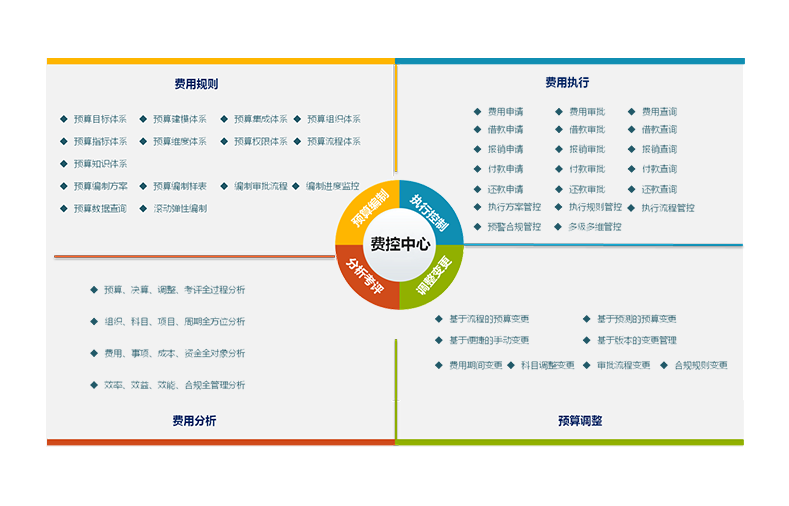
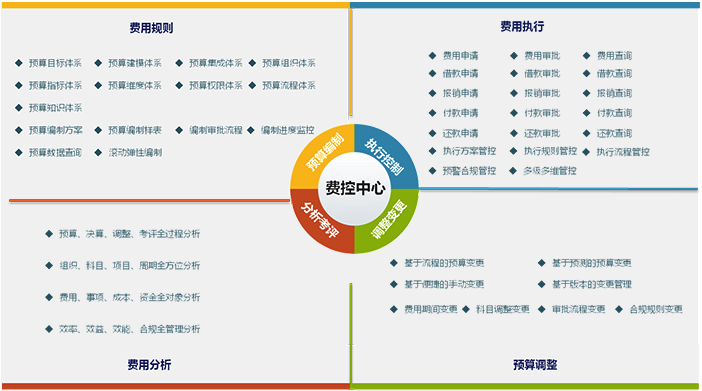
修改图片尺寸和md标签

diff --git a/docs/group_management/features.md b/docs/group_management/features.md
@@ -3,7 +3,7 @@ title: 技术特点
 ---
 ## 多管控模式融合
 
-### 集团级组织树
+#### 集团级组织树
 
 支持组织机构多维度：按照行政、业务条线、管控模式、业务特性等建立多维度矩阵式管理模式
 
@@ -13,14 +13,14 @@ title: 技术特点
 
 通过权限管理，实现多级分权的组织分权模式：支持移动段的组织结构视图
 
-### “弹性化”的集团组织体系
+#### “弹性化”的集团组织体系
 
 支持临时组织的建立：在集团企业中，跨组织、跨部门的沟通与协作不断增长，以事件或者目标为核心的机制突破集团组织边界
 
 支持多变动的组织调整：具备弹性的组织动态调整功能，快速应对与响应业务发展需要
 
 
-### 可视化集团分级分权体系
+#### 可视化集团分级分权体系
 
 - 按照不同股权关系展现权限体系
 - 按照不同的业务单元展现权限体系
@@ -28,7 +28,7 @@ title: 技术特点
 - 按照不同的条线管理内容展现权限体系
 
 
-### 灵活的权限调整
+#### 灵活的权限调整
 
 - 组织结构调整，自动展现需要修正的权限内容
 - 权限随时复制，应对组织规模的随时扩大
@@ -39,7 +39,7 @@ title: 技术特点
 
 ## 实时信息传达
 
-### 跨组织实时传达
+#### 跨组织实时传达
 
 实现集团与下属企业的上传下达，实现信息对称，协同运作：
 - 跨组织的实时沟通
@@ -48,7 +48,7 @@ title: 技术特点
 - 任务执行的上传下达
 ![跨组织实时传达](/static/groupimg/m2_l.png)
 
-### 传达内容可视化
+#### 传达内容可视化
 
 通过最直观的方式，让传达更高效，可跟踪，能分析，提升传达效能：
 - 实时性可视化
@@ -57,7 +57,7 @@ title: 技术特点
 - 统计分析可视化
 ![跨组织实时传达](/static/groupimg/m6_l.png)
 
-### 传达方式移动化
+#### 传达方式移动化
 
 通过移动化应用提升整个集团在信息传达方面的效率：
 - 用消息机制来实现传达与互动
@@ -68,7 +68,7 @@ title: 技术特点
 
 ## 实时资源共享
 
-### 人力资源共享
+#### 人力资源共享
 
 实现集团专家资源的服务共享：在集团企业中，实现专家资源最大化的利用与共享
 
@@ -77,48 +77,48 @@ title: 技术特点
 人力资源的招聘与培训共享服务：建立集团的人力资源服务中心，为集团内企业提供培训、招募服务
 
 
-### 知识资源的共享
+#### 知识资源的共享
 
 形成集团化的知识仓库：可集中沉淀集团在管理过程中的知识，形成共性知识资源的共享
 
 集团级的知识仓库：面向整个集团建立大知识体系
 
 
-### 财务服务共享
+#### 财务服务共享
 
 支持多种共享服务类型：从财务的代办、资金的托管、集中的报账、集中的支付等不同阶段、不同规模、不同管控模式的企业实现财务服务的共享化
 
 支持多级分权的共享服务：分级分层的共享服务类型
 ![跨组织实时传达](/static/groupimg/m10_l.png)
 
-### 合同法务共享
+#### 合同法务共享
 
 通过建立有效的合同管理流程、法务服务流程，将合同规范化、合同履约跟踪化、法务服务及时化，从而大大降低整体企业的商务风险
 
 
-### 行政资源共享
+#### 行政资源共享
 
 通过可视化的资源视图，随时了解集团公共服务；通过资源整合，实现多样化的共享资源服务，包括了供应商资源的共享， 差旅服务的共享、车辆管理与会议室资源等共享
 
 
 ## 风险合规执行
 
-### 风险合规流程化
+#### 风险合规流程化
 
 通过流程信息化，建立持续的风险评估工作机制，全面掌握风险分布及风险变化情况
 
 
-### 风险合规可视化
+#### 风险合规可视化
 
 建立体系文件，提高体系的可视度，以确保可执行、可审计
 
 
-### 风险预警自动化
+#### 风险预警自动化
 
 建立灵活适用于各种信息系统访问权限与职责分离的自动化检查工具
 
 
-### 风险分析图表化
+#### 风险分析图表化
 
 提供多维度的统计分析，提高损失事件管理的应用价值
 

diff --git a/docs/group_management/scenario.md b/docs/group_management/scenario.md
@@ -3,7 +3,7 @@ title: 应用场景
 ---
 ## 集团统一管理
 
-### 集团统一门户中心
+#### 集团统一门户中心
 
 集团门户：将集团所有的目标、资讯、制度、文化等融汇到集团门户中。实现对整个企业的时时内容互动
 
@@ -16,7 +16,7 @@ title: 应用场景
 下属企业门户：通过门户的方式实现企业工作内容的呈现
 ![管控场景](/static/groupimg/管控场景.png)
 
-### 集团统一流程中心
+#### 集团统一流程中心
 
 一个集团一个流程平台：通过一个流程平台涵盖集团所有的部门以及流程
 
@@ -29,7 +29,7 @@ title: 应用场景
 
 ## 集团知识管理应用
 
-### 集团知识中心
+#### 集团知识中心
 
 知识体系规划：明确知识的对象，形成多种知识类型库，通过知识类型库的建立，完善知识的采集与分类存储
 
@@ -40,7 +40,7 @@ title: 应用场景
 知识行为分析：按照组织、类型、知识的操作等方式来分析整个组织杂知识方面的管理成效
 ![管控场景](/static/groupimg/管控场景2.png)
 
-### 集团公文中心
+#### 集团公文中心
 
 集团公文管理一体化：集团发文与下属公文收文的一体化，实现多级、多层的发文管理。随时了解公文的办理情况
 
@@ -51,7 +51,7 @@ title: 应用场景
 
 ## 集团财务风控应用
 
-### 集团费控中心
+#### 集团费控中心
 
 预算关联管控型：根据不同的费用类型与组织类型，建立不同的费用审批过程
 
@@ -60,7 +60,7 @@ title: 应用场景
 专项方案关联管控型：根据不同的项目、合同实现对不同类型费用的合并管控
 ![管控场景](/static/groupimg/管控场景4.png)
 
-### 集团合同中心
+#### 集团合同中心
 
 落实合同管理规范：固化集团的合同管理制度
 
@@ -73,7 +73,7 @@ title: 应用场景
 
 ## 集团综合管理应用
 
-### 集团项目中心
+#### 集团项目中心
 
 项目生命周期管理：对项目的整个生命周期，从立项、计划、执行、控制到结束的管理，对项目状态（执行、正常、延期、冻结等）进行管理
 
@@ -84,7 +84,7 @@ title: 应用场景
 项目实时监控：从任务安排、项目进度、人员安排、预算情况等不同角度监控项目，以便及时对项目做出调整
 ![管控场景](/static/groupimg/管控场景6.png)
 
-### 集团任务中心
+#### 集团任务中心
 
 任务收集记录：员工可以将自己需要去做的事情随时记录到任务管理中
 
@@ -96,7 +96,7 @@ title: 应用场景
 ![管控场景](/static/groupimg/管控场景7.png)
 
 
-### 集团会议中心
+#### 集团会议中心
 会议规划地图化：根据年初会议规划，制定全面的会议安排，让会议体系执行更加清晰
 
 会议过程清晰化：自动根据会议模板形成会议主题、内容、以及参会人员，在会议过程中直接可加入会议材料，并随时提前在系统中进行沟通与交流
@@ -106,7 +106,7 @@ title: 应用场景
 会议分析图表化：从任务安排、项目进度、人员安排、预算情况等不同角度监控项目，以便及时对项目做出调整
 ![管控场景](/static/groupimg/管控场景8.png)
 
-### 集团行政中心
+#### 集团行政中心
 
 会议资源管理：对会议参与人、会议室、会议服务进行统一管理，同时具备资源冲突提醒
 

diff --git a/docs/group_management/home.md b/docs/group_management/home.md
@@ -19,7 +19,7 @@ sidebar_label: 概述
 风险合规执行：建立集团统一的风险评估机制、风险预警机制、风险应对机制及风险整改机制，确保集团经营安全
 ![多管控模式融合](/static/groupimg/m4_l.png)
 
-### 集团管控平台逻辑框架
+#### 集团管控平台逻辑框架
 ![多管控模式融合](/static/groupimg/logic.png)
 
 ## 集团管控平台技术特点
